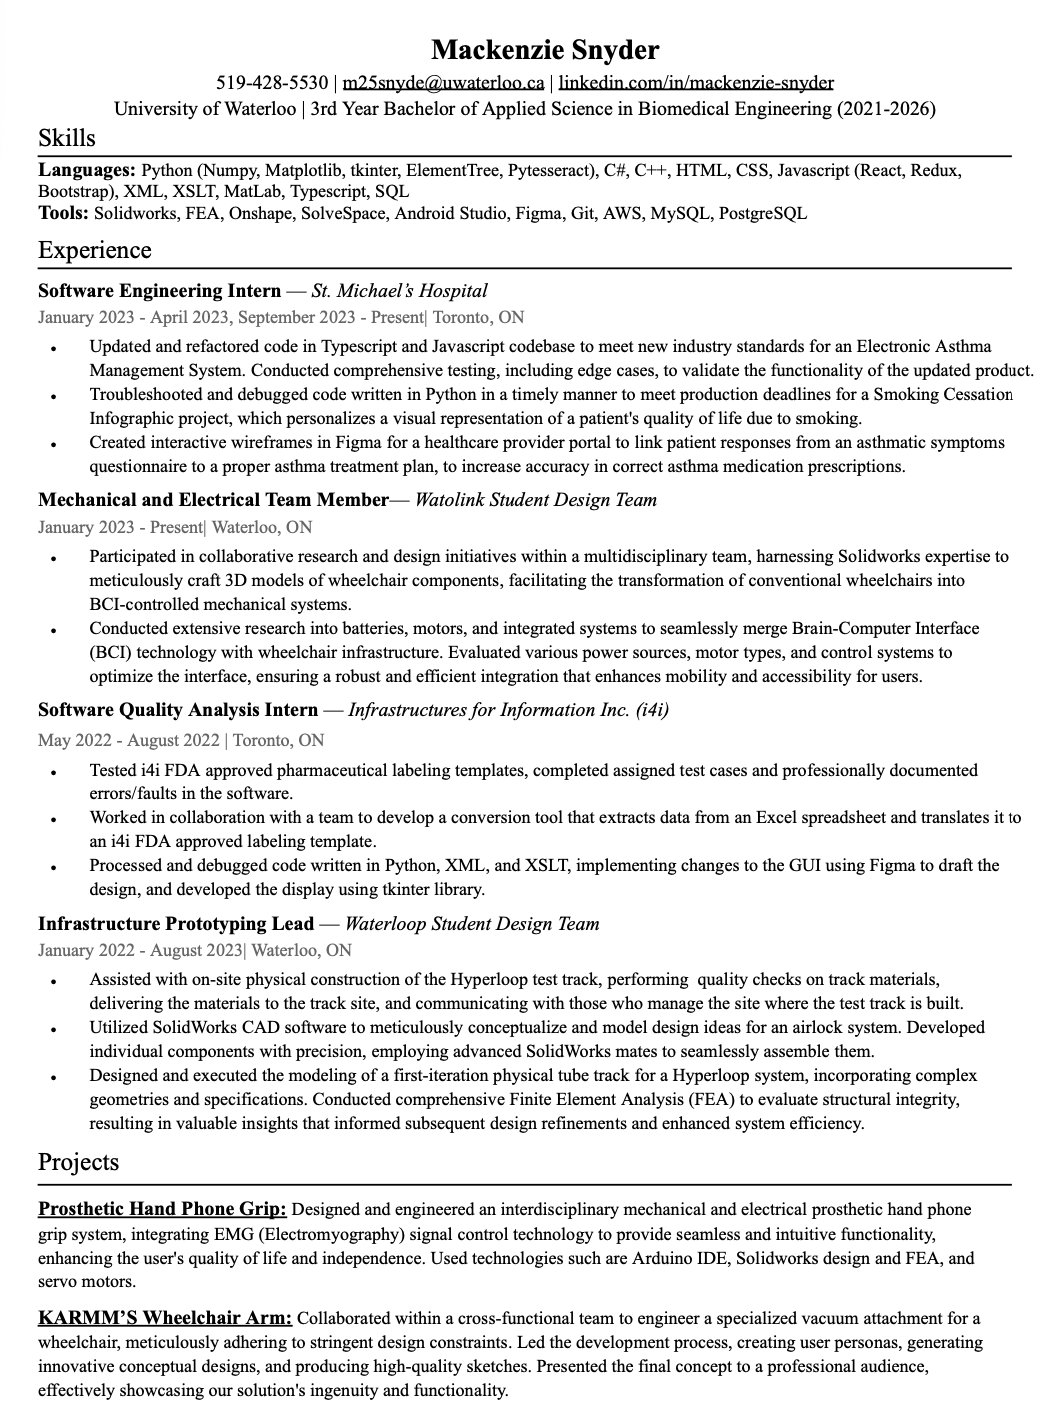
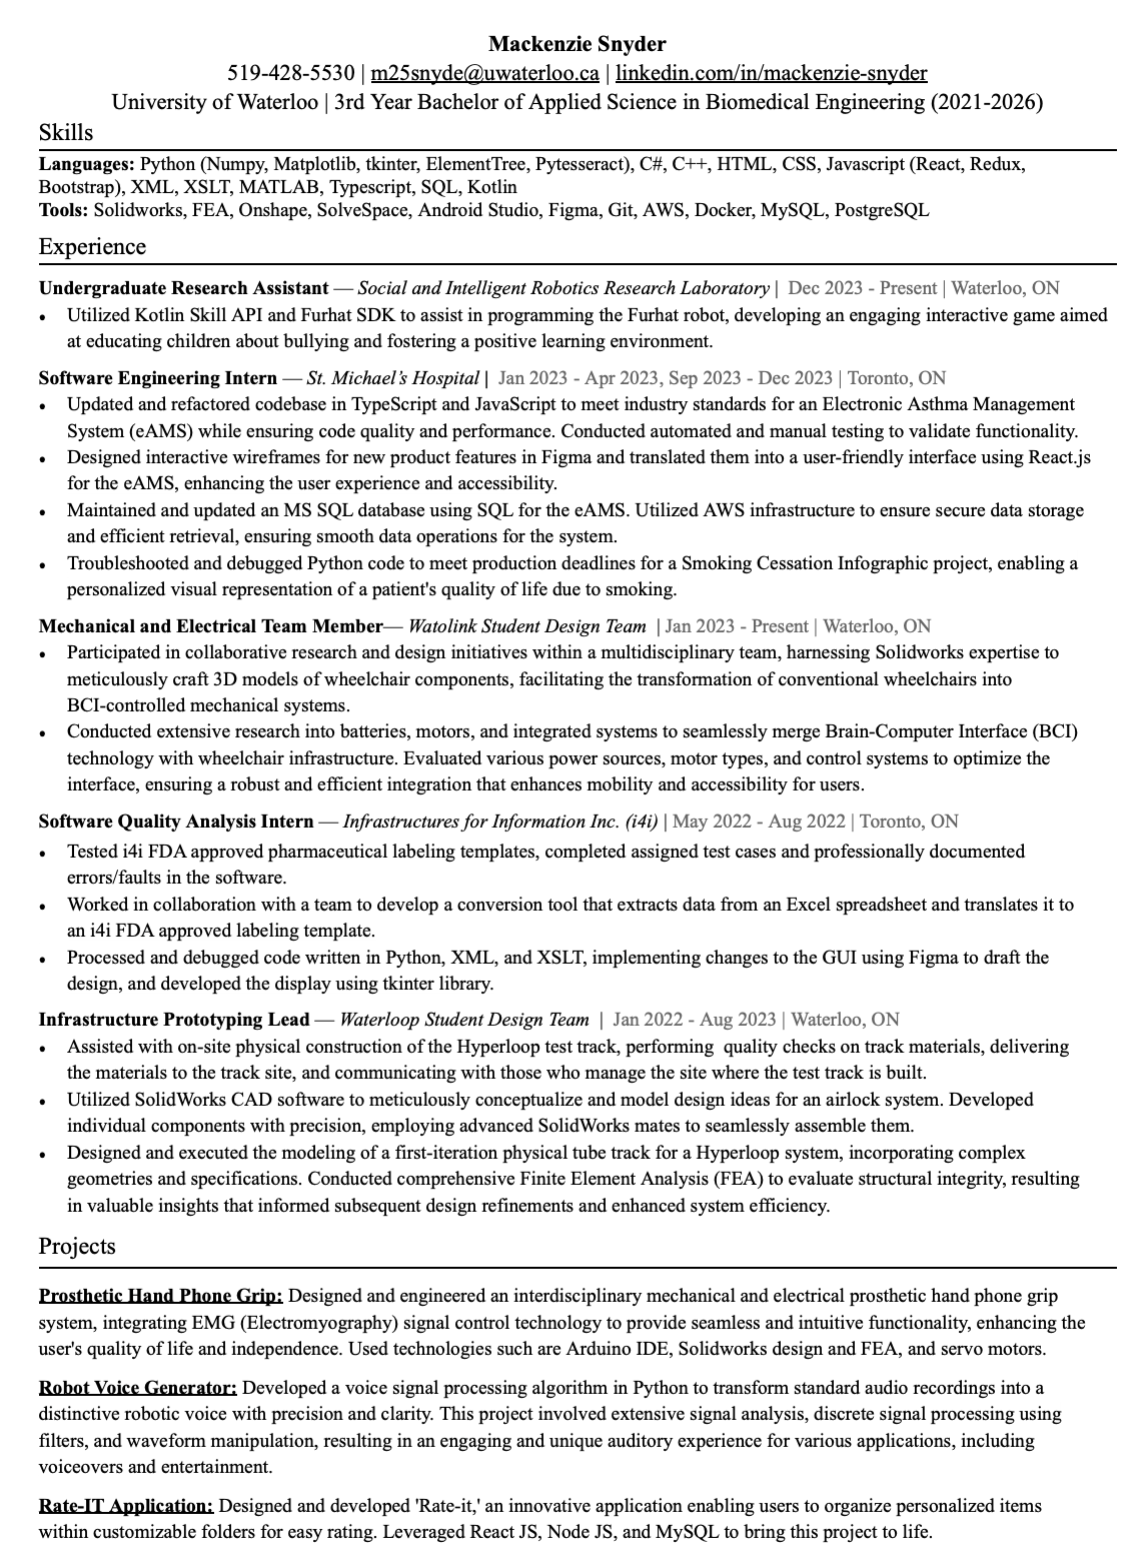
Update content in experience page

Changed region(s): [[0.0305, 0.0, 0.9752, 0.9902]]

diff --git a/src/experience/experience.jsx b/src/experience/experience.jsx
@@ -11,6 +11,8 @@ import karmm from './content/karmm.png';
 import hotDog from './content/hotdog.png';
 import sySTEM from './content/sySTEM.png';
 import blank from './content/blank.png';
+import sirrl from './content/sirrl.png';
+import food4kids from './content/food4kids.png';
 
 function Experience() {
     return (
@@ -20,10 +22,10 @@ function Experience() {
                 <div className="ex_navbar">
                     <li className="exli">
                        <button className="but">
-                        <a className="resButton" href="#internship">Internships</a>
+                        <a className="resButton" href="#internship">Research</a>
                        </button>
                        <button className="but">
-                        <a className="resButton" href="#sdt">Student Design Teams</a>
+                        <a className="resButton" href="#sdt">Internships and Student Design Teams</a>
                        </button> 
                        <button className="but">
                         <a className="resButton" href="#projects">Projects</a>
@@ -37,8 +39,8 @@ function Experience() {
                         <div className="item">
                             <div className="item_text">
                                 <div className="item_header">Software Engineering Intern</div>
-                                <p className="item_company">Unity Health Toronto | January 2023 - April 2023 and September 2023 - Current</p>
-                                <p className="skills">Skills: Typescript, React.js, Java, Python, MS SQL, PostrgeSQL, AWS, Android Studio, Figma, Git</p> 
+                                <p className="item_company">Unity Health Toronto | January 2023 - April 2023 and September 2023 - December 2023</p>
+                                <p className="skills">Skills and Tools: Typescript, React.js, Java, Python, MS SQL, PostrgeSQL, AWS, Android Studio, Figma, Git</p> 
                                 <p className="describe">
                                     Updated and refactored code in Typescript and Javascript codebase to meet new industry standards 
                                     for an Electronic Asthma Management System. Conducted comprehensive testing, including edge cases, to validate the 
@@ -55,7 +57,7 @@ function Experience() {
                         <div className="item_text">
                             <div className="item_header">Software Quality Analysis Intern</div>
                                 <p className="item_company">Infrastructures for Information (i4i) | May 2022 - September 2022</p>
-                                <p className="skills">Skills: Quality Assurance, Test Documentation, Python, XML/XMLT</p>
+                                <p className="skills">Skills and Tools: Quality Assurance, Test Documentation, Python, XML/XMLT</p>
                                 <p className="describe">
                                     Tested i4i FDA approved pharmaceutical labeling templates, completed assigned test cases 
                                     and professionally documented errors/faults in the software. Worked in collaboration with a team to develop a conversion 
@@ -68,13 +70,25 @@ function Experience() {
                         </div>
                     </div>
 
-                    <h2 className="header" id="sdt">Student Design Teams</h2>
+                    <h2 className="header" id="sdt">Research and Student Design Teams</h2>
                     <div className="body_section">
+                    <div className="item">
+                            <div className="item_text">
+                                <div className="item_header">Undergraduate Research Assistant</div>
+                                <p className="item_company">Social and Intelligent Robotics Research Labratory | January 2023 - Present</p>
+                                <p className="skills">Skills and Tools: Kotlin, Furhat Social Robot SDK</p> 
+                                <p className="describe">
+                                  Utilized Kotlin Skill API and Furhat SDK to assist in programming the Furhat robot, 
+                                  developing an engaging interactive game aimed at educating children about bullying and fostering a positive learning environment. 
+                                </p>
+                            </div>
+                             <img className="picture" src={sirrl} alt="SIRRL Logo"></img>
+                        </div>
                         <div className="item">
                             <div className="item_text">
                                 <div className="item_header">Mechanical/Electrical Team Member</div>
                                 <p className="item_company">Watolink | January 2023 - Present</p>
-                                <p className="skills">Skills: SolidWorks, CAD, Market Research, User Research</p>
+                                <p className="skills">Skills and Tools: SolidWorks, CAD, Market Research, User Research</p>
                                 <p className="describe">
                                     Participated in collaborative research and design initiatives within a multidisciplinary team,
                                     harnessing Solidworks expertise to meticulously craft 3D models of wheelchair components, facilitating
@@ -91,7 +105,7 @@ function Experience() {
                             <div className="item_text">
                                 <div className="item_header">Infrastructure Team Lead</div>
                                 <p className="item_company">Waterloop | January 2022 - August 2023</p>
-                                <p className="skills">Skills: Project Management, Leadership, SolidWorks, CAD, FEA, Field Construction</p>
+                                <p className="skills">Skills and Tools: Project Management, Leadership, SolidWorks, CAD, FEA, Field Construction</p>
                                 <p className="describe">
                                     Assisted with on-site physical construction of the Hyperloop test track, performing  quality checks on track materials,
                                     delivering the materials to the track site, and communicating with those who manage the site where the test track is built.
@@ -108,7 +122,7 @@ function Experience() {
                             <div className="item_text">
                                 <div className="item_header">Frontend Software Team Member</div>
                                 <p className="item_company">UW Med Tech Resolve | August 2022 - January 2023</p>
-                                <p className="skills">Skills: React.js, Bootstrap, Redux, Git</p>
+                                <p className="skills">Skills and Tools: React.js, Bootstrap, Redux, Git</p>
                                 <p className="describe">
                                     Worked on front-end development features of the UW Med Tech Resolve public website using React and Bootstrap to improve 
                                     the existing UI, and using Redux as a state management tool. Collaborated with team members to conceptually design an 
@@ -125,7 +139,7 @@ function Experience() {
                             <div className="item_text">
                                 <div className="item_header">Rate-IT</div>
                                 <p className="item_company">Software Project</p>
-                                <p className="skills">Skills: React.js, Next.js, MySQL, Figma, Git</p>
+                                <p className="skills">Skills and Tools: React.js, Next.js, MySQL, Figma, Git</p>
                                 <p className="describe">
                                     Designed and developed 'Rate-it,' an innovative application enabling users to organize personalized items within customizable 
                                     folders for easy rating. Leveraged React JS, Node JS, and MySQL to bring this project to life.
@@ -137,7 +151,7 @@ function Experience() {
                             <div className="item_text">
                                 <div className="item_header"> Prosthetic Hand Phone Grip</div>
                                 <p className="item_company">Interdisciplinary Project</p>
-                                <p className="skills">Skills: SolidWorks, CAD, 3D Printing, Rapid Prototyping, EMG Signal Processing, Arduino IDE, Circuit Design</p>
+                                <p className="skills">Skills and Tools: SolidWorks, CAD, 3D Printing, Rapid Prototyping, EMG Signal Processing, Arduino IDE, Circuit Design</p>
                                 <p className="describe">
                                     Designed and engineered an interdisciplinary mechanical and electrical prosthetic hand phone grip system, integrating EMG (Electromyography) 
                                     signal control technology to provide seamless and intuitive functionality, enhancing the user's quality of life and independence. Used 
@@ -150,7 +164,7 @@ function Experience() {
                             <div className="item_text">
                                 <div className="item_header">KARMM's Wheelchair Arm</div>
                                 <p className="item_company">Product Design Project</p>
-                                <p className="skills">Skills: Engineering Drawings, Product Design, Iterative Design, User Rersearch</p>
+                                <p className="skills">Skills and Tools: Engineering Drawings, Product Design, Iterative Design, User Rersearch</p>
                                 <p className="describe">
                                     Collaborated within a cross-functional team to engineer a specialized vacuum attachment for a wheelchair, 
                                     meticulously adhering to stringent design constraints. Led the development process, creating user personas, 
@@ -162,9 +176,24 @@ function Experience() {
                         </div>
                         <div className="item">
                             <div className="item_text">
+                                <div className="item_header">Meal Matchmakers</div>
+                                <p className="item_company">Fall 2023 WiE Hackathon Submission - Partnered with Food4Kids Waterloo</p>
+                                <p className="skills">Skills and Tools: Python, Figma, Product Design, Responsive Design, User Flows and Wireframing</p>
+                                <p className="describe">
+                                    Developed a strategic initiative to enhance community engagement and donor participation in the Food4Kids program. 
+                                    Devised and implemented a Python-based algorithm that optimizes the matching process between children with dietary 
+                                    restrictions and local donors, significantly reducing the travel requirements for Food4Kids delivery personnel. 
+                                    Additionally, crafted a user-friendly teacher portal prototype using Figma, empowering educators to register 
+                                    students for the program while providing valuable resources on recognizing signs of child hunger.
+                                </p>
+                            </div>
+                            <img className="picture" src={food4kids} alt="Food4Kids Teacher Portal Student Registration"></img>
+                        </div>
+                        <div className="item">
+                            <div className="item_text">
                                 <div className="item_header">SySTEM</div>
-                                <p className="item_company">Fall 2023 WiE Hackathon Submission</p>
-                                <p className="skills">Skills: Product Design, Responsive Design, User Flows and Wireframing</p>
+                                <p className="item_company">Fall 2022 WiE Hackathon Submission</p>
+                                <p className="skills">Skills and Tools: Product Design, Responsive Design, User Flows and Wireframing</p>
                                 <p className="describe">
                                     Designed and prototyped an intuitive mobile app interface in Figma that incorporates a daily question generator to engage and guide high school students towards 
                                     potential STEM career paths. The interactive design encourages exploration and self-assessment, fostering a greater understanding of diverse STEM fields and inspiring 
@@ -177,7 +206,7 @@ function Experience() {
                             <div className="item_text">
                                 <div className="item_header">Hot Dog Cart</div>
                                 <p className="item_company">Computer Aided Design Project</p>
-                                <p className="skills">Skills: Onshape, CAD, 3D Modelling, Creative Thinking</p>
+                                <p className="skills">Skills and Tools: Onshape, CAD, 3D Modelling, Creative Thinking</p>
                                 <p className="describe">Designed a hot dog cart using Onshape, encompassing 3D modeling, assembly, and detailed technical 
                                 drawings to ensure precision and visual detail.</p>
                             </div>
@@ -187,7 +216,7 @@ function Experience() {
                             <div className="item_text">
                                 <div className="item_header">Robot Voice Generator</div>
                                 <p className="item_company">Software Project</p>
-                                <p className="skills">Skills: Python, Discrete Signal Processing, Audio Signal Analysis</p>
+                                <p className="skills">Skills and Tools: Python, Discrete Signal Processing, Audio Signal Analysis</p>
                                 <p className="describe">
                                     Developed a voice signal processing algorithm in Python to transform standard audio recordings into a distinctive robotic voice with precision and clarity. 
                                     This project involved extensive signal analysis, discrete signal processing using filters, and waveform manipulation, resulting in an engaging and unique auditory 
@@ -200,7 +229,7 @@ function Experience() {
                             <div className="item_text">
                                 <div className="item_header">Instagram Follower Project</div>
                                 <p className="item_company">Software Project</p>
-                                <p className="skills">Skills: Typescript, Git</p>
+                                <p className="skills">Skills and Tools: Typescript, Git</p>
                                 <p className="describe">
                                     Developed a Typescript script to analyze Instagram follower data stored in JSON files, automating the extraction of information such as 
                                     follower usernames and following usernames.This project facilitated the efficient comparison of followers vs following and displays 
@@ -211,9 +240,9 @@ function Experience() {
                         </div>
                         <div className="item">
                             <div className="item_text">
-                                <div className="item_header">Orthello</div>
+                                <div className="item_header">Othello</div>
                                 <p className="item_company">Software Project</p>
-                                <p className="skills">Skills: C#, Object-Oriented Programming</p>
+                                <p className="skills">Skills and Tools: C#, Object-Oriented Programming</p>
                                 <p className="describe">
                                     Designed and implemented a fully functional two-player Othello game using C#, demonstrating strong algorithm proficiency by 
                                     creating method functions and incorporating key game features.
@@ -225,7 +254,7 @@ function Experience() {
                             <div className="item_text">
                                 <div className="item_header">Preventative Measures Proposal</div>
                                 <p className="item_company">Spring 2023 Univerity of Waterloo Engineering Competition Submission - Awarded 2nd Place in the Bioengineering Category</p>
-                                <p className="skills">Skills: Problem Solving, Critical Thinking</p>
+                                <p className="skills">Skills and Tools: Problem Solving, Critical Thinking</p>
                                 <p className="describe">
                                     Competed in the Spring 2022 Waterloo Engineering Competition in the Bioengineering category placing 2nd overall. Worked with a partner to produce a 7-page report and 
                                     presentation on a solution to promote the research and funding of artificial blood substitutes while under a time limit. 

diff --git a/src/homePage/homePage.jsx b/src/homePage/homePage.jsx
@@ -11,7 +11,7 @@ function homePage() {
       <div className='homePage'>
         <div className='homePageContainer'>
           <div className='title'>Mackenzie Snyder</div>
-          <p className='description'>Biomedical Engineering Student with a Passion to Technologically Advance Healthcare</p>
+          <p className='description'>Biomedical Engineering Student with a Passion in Robotics, Automation, and Technologically Advancing Healthcare</p>
           <div className='link-cont'>
             <div className='item-cont'>
               <img className="icon" src={linkedInIcon} alt="linkedIn Icon"></img>

diff --git a/src/homePage/homePage.css b/src/homePage/homePage.css
@@ -71,7 +71,7 @@
 
 .description {
     margin-top: 20px;
-    font-size: 48px;
+    font-size: 40px;
     font-family: 'Times New Roman', Times, serif;
     color: #7c6d6d;
 }

diff --git a/src/App.js b/src/App.js
@@ -27,3 +27,5 @@ function App() {
 
 export default App;
 
+//to deploy: npm run deploy
+
